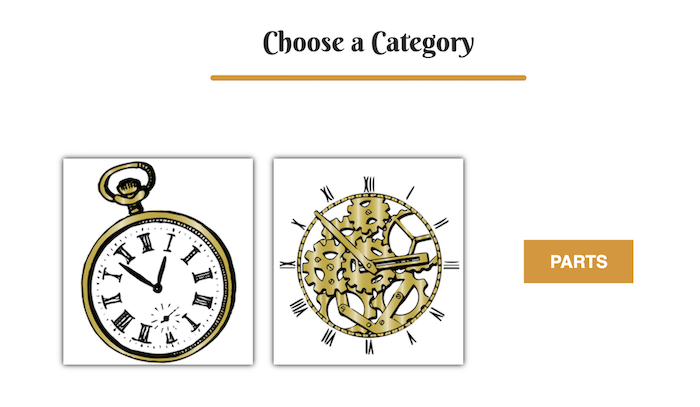
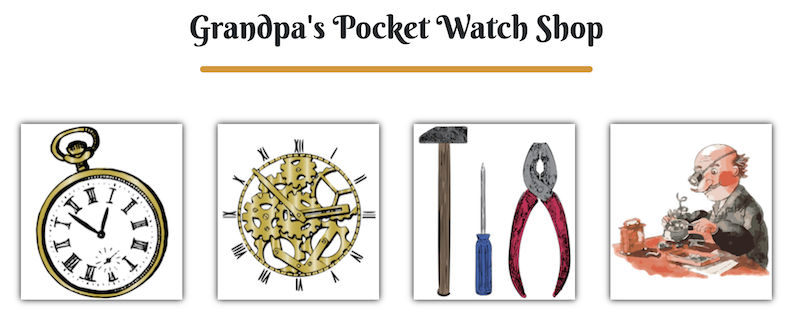
Updated README file

diff --git a/README.md b/README.md
@@ -344,18 +344,21 @@ Pocket Watch Shop.
 ![Home Mobile](/documentation/readme/home-mb.png/)
 
 - The `Home` page for mobile devices will be kept simple and
-  minimalistic to draw the user to the three main icons of
-  categories to choose, drawn to after reading page header,
-  'Choose a Category'. The icons once hovered over will enlarge
-  and be intuitively clickable.
+  minimalistic to draw the user to the three main chapters
+  of headers; `Watches`, `Parts`, `Tools` and `Services`. 
+  The icons, once hovered over, will enlarge slightly
+  and be intuitively clickable. It was chosen to title
+  the page 'Grandpa's Pocket Watch Shop' so that users
+  are informed of the specific nature of the type of 
+  watch.
 
 **Desktop**
 
 ![Home Desktop](/documentation/readme/home-dt.png/)
 
 - The `Home` page for larger devices will keep the same design
-  format, but instead have images of the categories, that
-  when hovered over, will disappear and display the category
+  format, but instead have images of the choices, that
+  when hovered over, will disappear and display the header
   name in its place. This extra feature brings a greater visual
   and interactive experience to the user.
 
